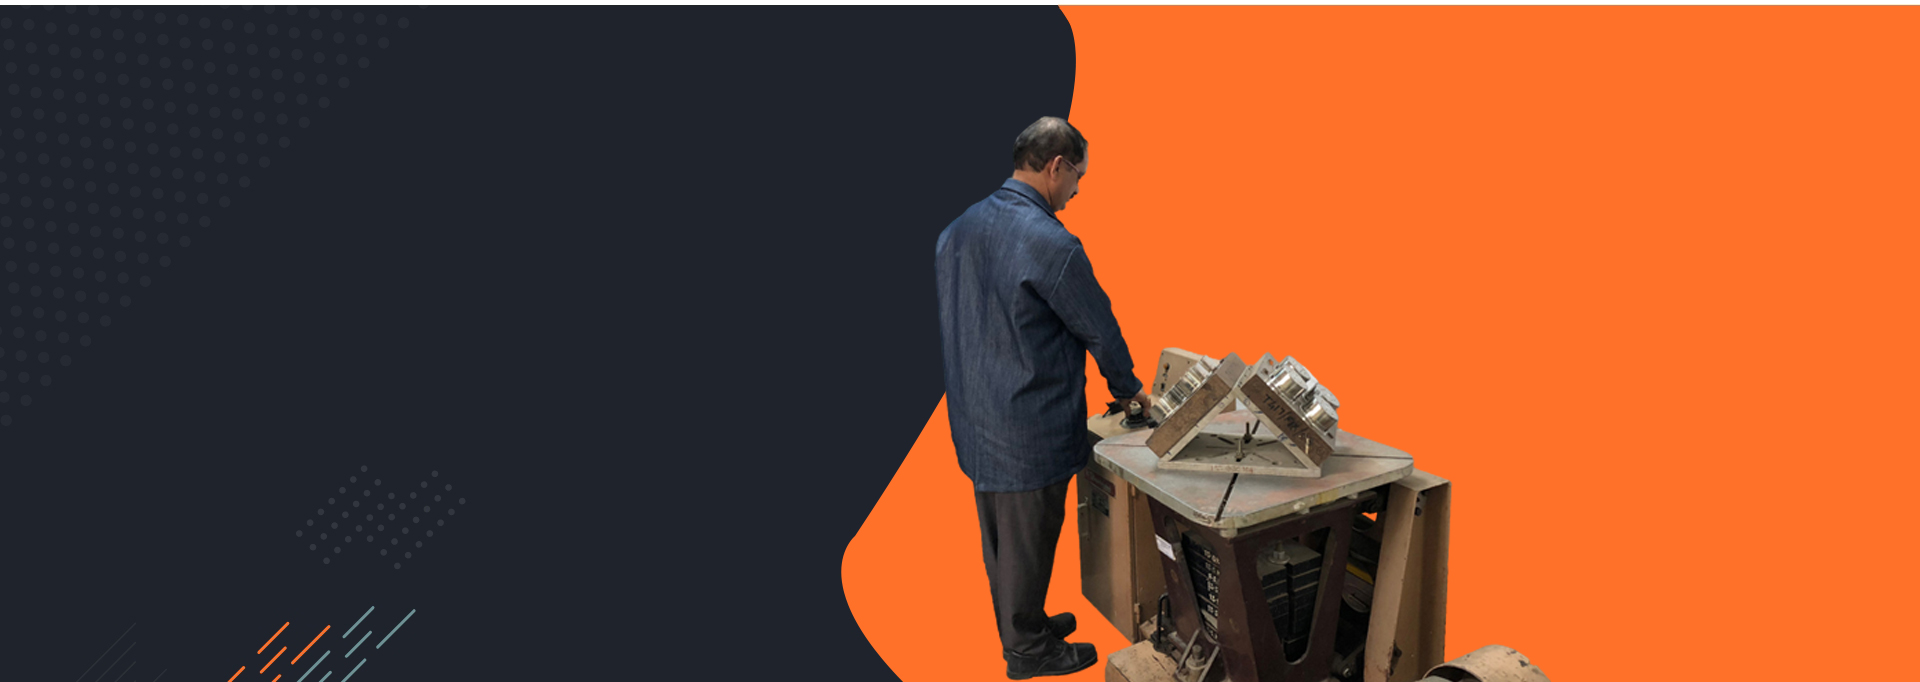
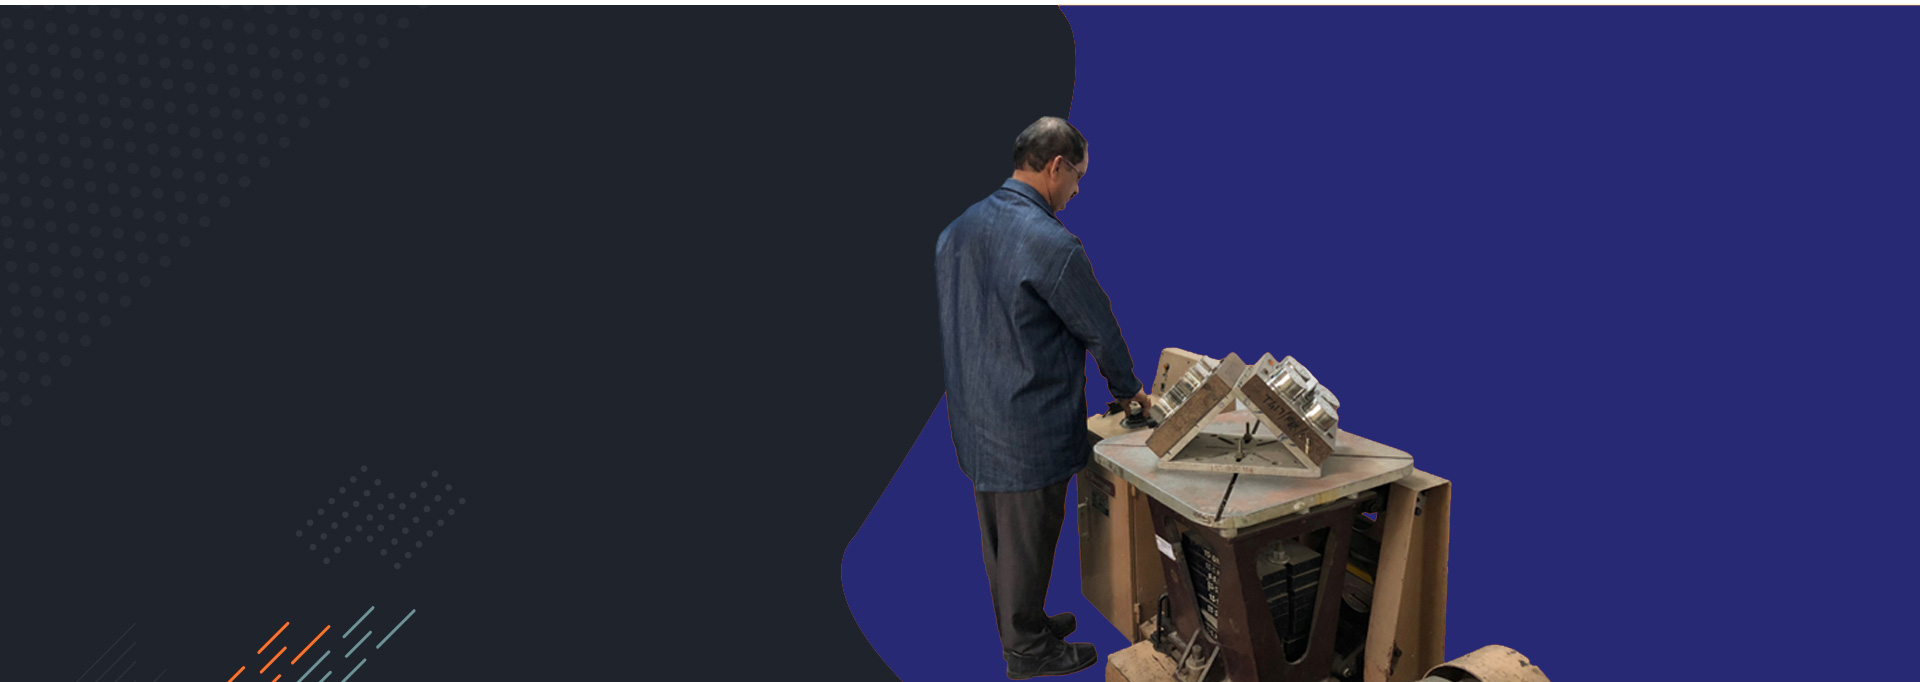
updated

diff --git a/wwwroot/style.css b/wwwroot/style.css
@@ -3002,24 +3002,24 @@ body.page #main-content {
         min-height: 403px;
     }
 }
-    .services-page__single-inner::before {
-        position: absolute;
-        top: 0;
-        left: 0;
-        bottom: 0;
-        right: 0;
-        background: #ff7029;
-        transform: scaleX(0.8);
-        opacity: 0;
-        transform-origin: center;
-        transform-style: preserve-3d;
-        -webkit-transition: all 0.4s linear;
-        -o-transition: all 0.4s linear;
-        transition: all 0.4s linear;
-        border-radius: 15px;
-        content: "";
-        z-index: -1;
-    }
+.services-page__single-inner::before {
+    position: absolute;
+    top: 0;
+    left: 0;
+    bottom: 0;
+    right: 0;
+    background: #272974;
+    transform: scaleX(0.8);
+    opacity: 0;
+    transform-origin: center;
+    transform-style: preserve-3d;
+    -webkit-transition: all 0.4s linear;
+    -o-transition: all 0.4s linear;
+    transition: all 0.4s linear;
+    border-radius: 15px;
+    content: "";
+    z-index: -1;
+}
 
 .services-page__single:hover .services-page__single-inner::before {
     transform: scaleX(1.0);

diff --git a/wwwroot/css/shortcodes.css b/wwwroot/css/shortcodes.css
@@ -1514,7 +1514,7 @@
         border-bottom: 0px;
         margin: 0;
         box-shadow: 0 10px 30px rgb(0 0 0 / 7%);
-        min-height: 560px;
+        min-height: 360px;
         font-size: 19px;
     }
 .style-2 .row-question-slider .box-question p,
@@ -1534,7 +1534,7 @@
   font-size: 14px;
   padding: 9px 9px !important;
   top: 110px;
-  left: 53%;
+  left: 48%;
 }
 .style-2 .row-question-slider .box-question p {
   padding: 0 15px 16px 15px !important;
